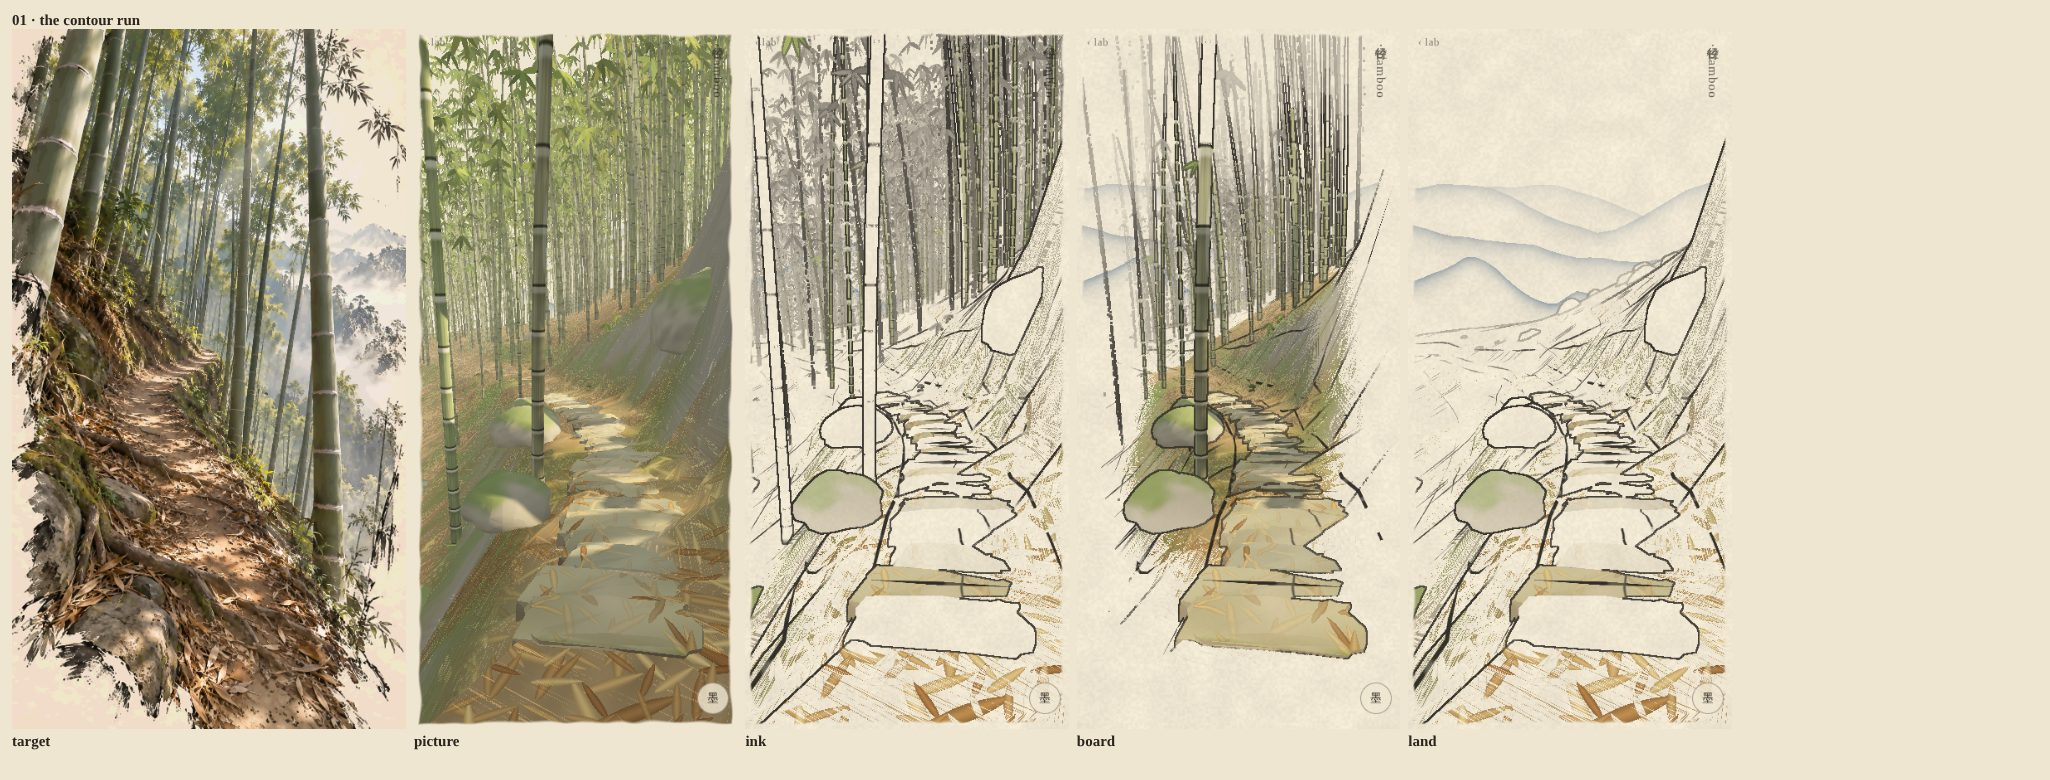
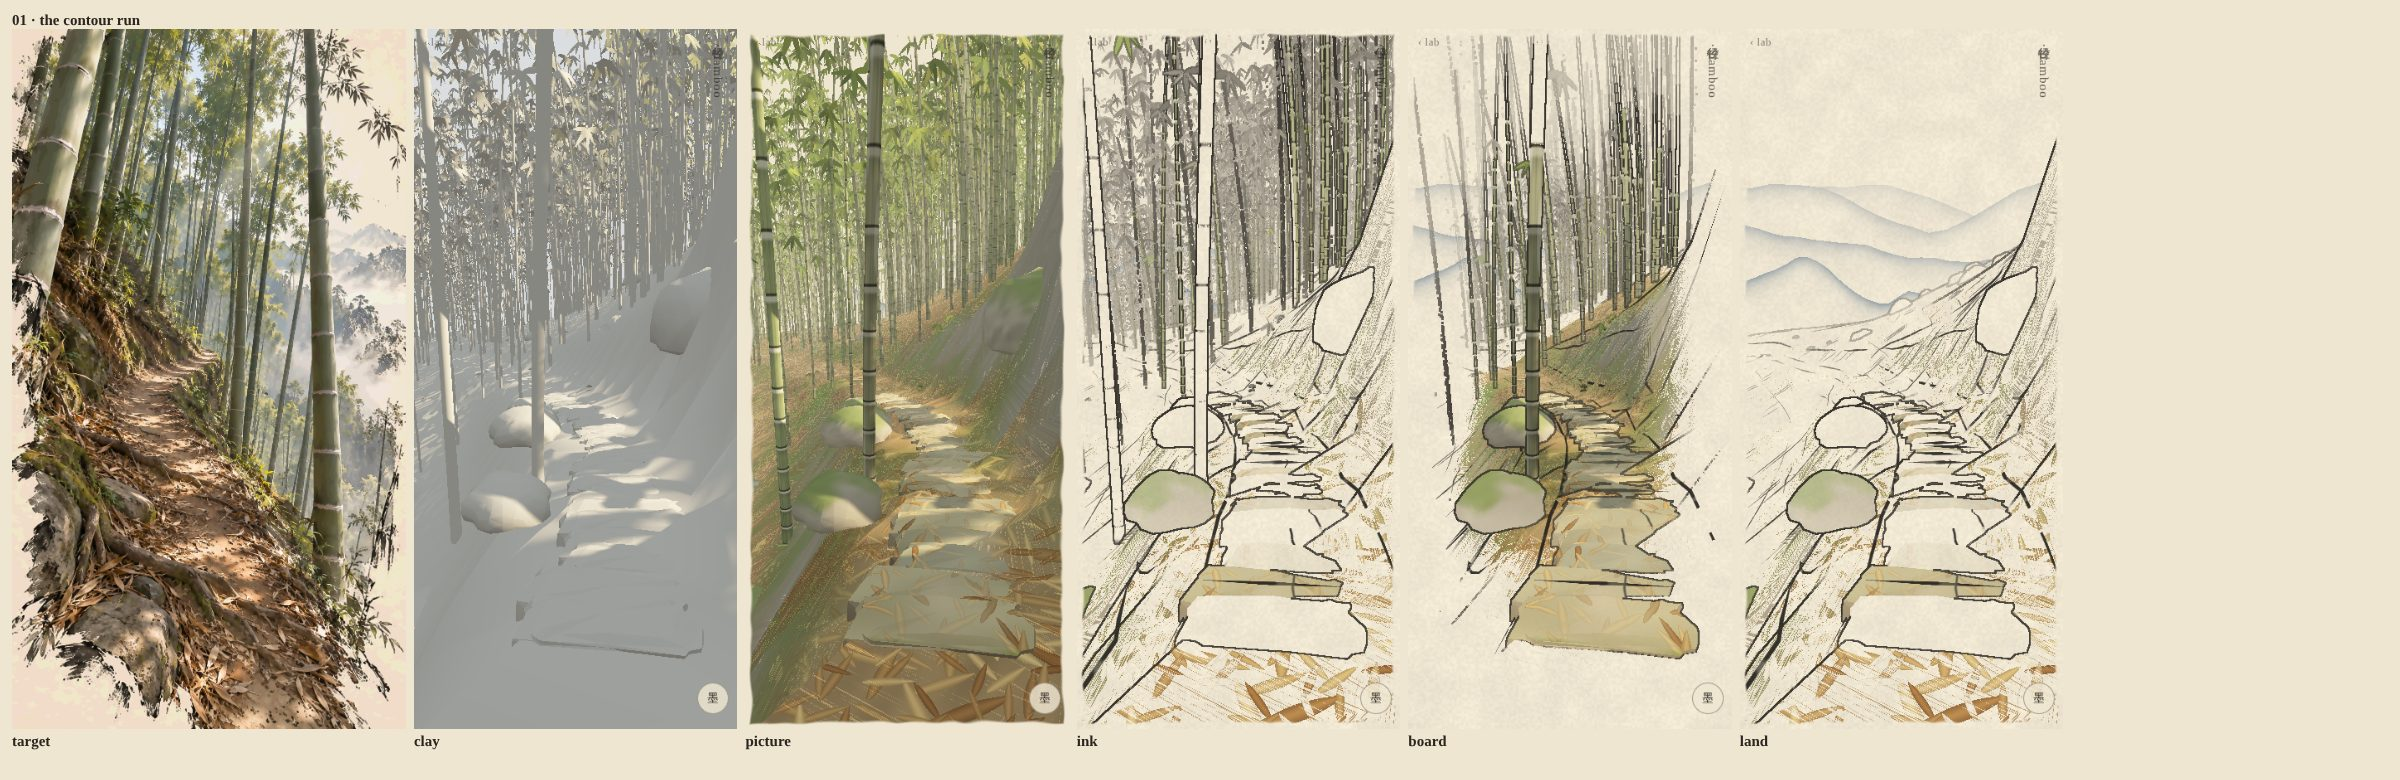
lab/bamboo: ?clay, the forms alone (one clay, the sun and the cast shadows kept, no paper or ink); a clay column in the gates
Claude-Session: https://claude.ai/code/session_01D2Nx3PayKJtFYoab5A57H3

diff --git a/cells/lab/client/bamboo/render.ts b/cells/lab/client/bamboo/render.ts
@@ -51,6 +51,7 @@ float fbm2(vec2 p) { return vn(p) * .55 + vn(p * 2.03 + 7.1) * .3 + vn(p * 4.1 -
 `;
 const COMMON = `#version 300 es
 precision highp float; precision highp int; precision highp sampler2DShadow;
+uniform float uClay;
 uniform mat4 uVP; uniform vec3 uEye; uniform float uTime; uniform vec3 uSun; uniform vec4 uGust;
 uniform vec4 uReach; // colour to, wash to, ink to, softness (metres)
 uniform vec4 uFrame; // where the frame starts drawing out (from the focus, 0…~1.6), the focus's distance, -, how much sooner things nearer or farther than it go
@@ -149,7 +150,8 @@ vec3 carpet(vec3 base, vec2 p, float px, out float mark, out float leaf) {
 }
 vec3 lit(vec3 alb, vec3 N, vec3 p, float wrap, float ao) {
   float sun = dapple(p) * culmShade(p), ndl = max(0., (dot(N, uSun) + wrap) / (1. + wrap));
-  vec3 a = lin(alb);
+  // (\`?clay\`: every surface one clay, its light kept (the sun on it, the shadows cast, the sky): the forms alone)
+  vec3 a = lin(uClay > .5 ? vec3(.8, .78, .74) : alb);
   return a * (uSunC * ndl * sun + uSky * (.5 + .5 * N.y) * ao + vec3(.2, .15, .08) * (1. - N.y) * .3 * ao);
 }
 // (the display: a soft shoulder, then back to the eye's curve)
@@ -162,6 +164,7 @@ layout(location = 0) out vec4 oC; layout(location = 1) out vec4 oA;
 // (\`lit\`: as the light has it; \`own\`: its own colour, flat, as a painter lays it once the light's gone; \`b\`: how
 // far along it is (bandAt, at a point of the thing's own))
 void emit(vec3 lit, vec3 own, float b, float kind, float allow, float mark, vec3 p) {
+  if (uClay > .5) { oC = vec4(lit, 1.); oA = vec4(kind, allow, 1., 0.); return; }
   // (a thing gone to the page is gone: it hides nothing behind it. One drawn as its ink alone still stands in front of
   // what's behind it, as a drawn culm does, its paper its own. The ground goes as its leaves do, never as a hole)
   if (kind > .3 && inkOf(b) < .04) discard;
@@ -255,10 +258,10 @@ void main() {
   // (drawn in ink, a culm's kept by how near it is: near ones held; mid ones fewer; far ones, most
   // gone, so the drawing is a few verticals and the space between them, not a fence)
   float worth = (1. - smoothstep(6., 28., dist)) * .8 + .12;
-  if (whole > 1.7 && h21(vec2(vI.y * 3.7, 5.3)) > worth * (2.9 - whole) / 1.1 * 1.6) discard;
+  if (uClay < .5 && whole > 1.7 && h21(vec2(vI.y * 3.7, 5.3)) > worth * (2.9 - whole) / 1.1 * 1.6) discard;
   // (a culm goes from the page whole, by its own reach; along it, as its internodes go further out, its colour gives
   // way and its ink thins, a brush lifting, never a cylinder cut off where an internode stops)
-  if (inkOf(vBand) < .04) discard;
+  if (uClay < .5 && inkOf(vBand) < .04) discard;
   emit(c, own(alb), min(drawn, 2.84), .4, allow, mark, vW);
 }`;
 const DEPTH_FS = `#version 300 es
@@ -315,7 +318,7 @@ void main() {
   // (the marks: each blade's edge near; where the colour's given out, the blade filled in ink, as a brush lays it)
   float near = 1. - smoothstep(8., 26., distance(vW, uEye));
   float mark = max((1. - smoothstep(.0, .3, rim)) * near * .85, (1. - colourOf(vBand)) * (.22 + .16 * best)) * uMarks;
-  if (vBand > 1.8 && fract(vSeed * 17.3) > (2.9 - vBand) / 1.1) discard;
+  if (uClay < .5 && vBand > 1.8 && fract(vSeed * 17.3) > (2.9 - vBand) / 1.1) discard;
   emit(c, own(alb), vBand, .6, near, mark, vW);
 }`;
 
@@ -470,12 +473,14 @@ precision highp float;
 in vec2 vUV; out vec4 o;
 uniform sampler2D uC; uniform sampler2D uA; uniform sampler2D uZ;
 uniform vec2 uRes; uniform float uNear; uniform float uFar; uniform float uPx;
-uniform vec3 uPaper; uniform vec3 uInk; uniform vec3 uSunUV; uniform float uClean; uniform float uMarks;
+uniform vec3 uPaper; uniform vec3 uInk; uniform vec3 uSunUV; uniform float uClean; uniform float uMarks; uniform float uClay;
 uniform vec4 uReach;
 ${NOISE}
 float lz(vec2 p) { float d = texture(uZ, p).r; return uNear * uFar / (uFar - d * (uFar - uNear)); }
 void main() {
   vec4 C = texture(uC, vUV), A = texture(uA, vUV);
+  // (\`?clay\`: the forms as they're lit, over a plain sky: no paper, no ink)
+  if (uClay > .5) { o = vec4(C.a > .01 ? C.rgb : vec3(.86, .87, .88), 1.); return; }
   float z = lz(vUV);
   // ─── the outlines: where the depth jumps or one kind meets another, inked on the side that's in front, as far as
   // its reach and its allowance there let it ───
@@ -663,6 +668,8 @@ export class Renderer {
   allStrokes = false;
   /** `?culms=0`: the land alone, no culms or sprays (the gates' hard test: does the mountain and its path read?) */
   bare = false;
+  /** `?clay`: every surface one clay, its light (sun, cast shadows, sky) kept; no paper, no ink: the forms alone */
+  clay = false;
   /** how far the drawing reaches (see the head of this file) */
   /** the focus's distance, this frame */
   focus = 15;
@@ -774,7 +781,7 @@ export class Renderer {
   private uni(p: WebGLProgram, f: Frame, vp: number[], right: number[]) {
     const gl = this.gl, u = (n: string) => gl.getUniformLocation(p, n);
     gl.uniformMatrix4fv(u('uVP'), false, vp); gl.uniform3fv(u('uEye'), f.eye); gl.uniform1f(u('uTime'), f.t); gl.uniform3fv(u('uSun'), this.sunDir);
-    gl.uniform4fv(u('uGust'), f.gust); gl.uniform3fv(u('uSunC'), [3.0, 2.45, 1.6]); gl.uniform3fv(u('uSky'), [0.62, 0.68, 0.72]); gl.uniform1f(u('uOpen'), 0);
+    gl.uniform4fv(u('uGust'), f.gust); gl.uniform1f(u('uClay'), this.clay ? 1 : 0); gl.uniform3fv(u('uSunC'), [3.0, 2.45, 1.6]); gl.uniform3fv(u('uSky'), [0.62, 0.68, 0.72]); gl.uniform1f(u('uOpen'), 0);
     gl.uniform4fv(u('uReach'), [this.reach.colour, this.reach.wash, this.reach.ink, this.reach.soft]); gl.uniform2fv(u('uPick'), this.pick); gl.uniform1f(u('uMarks'), this.marks); gl.uniform3fv(u('uRight'), right);
     { const c0 = 0.3 + this.reach.frame * 1.3; gl.uniform4fv(u('uFrame'), [c0, this.focus, 0, this.reach.depth]); }
     gl.uniformMatrix4fv(u('uLightVP'), false, this.lightVP); gl.uniform1i(u('uShadow'), 3); gl.uniform1f(u('uShadowOn'), this.shadows ? 1 : 0); gl.uniform1i(u('uDepth'), 0);
@@ -816,7 +823,7 @@ export class Renderer {
     gl.clearBufferfv(gl.COLOR, 0, [0, 0, 0, 0]); gl.clearBufferfv(gl.COLOR, 1, [0, 0, 0, 1]); gl.clearBufferfv(gl.DEPTH, 0, [1]);
     gl.enable(gl.DEPTH_TEST); gl.depthFunc(gl.LEQUAL); gl.disable(gl.BLEND); gl.disable(gl.CULL_FACE);
     // ─── the far ranges, under everything ───
-    {
+    if (!this.clay) {
       use('ridge');
       this.attr(0, this.ridge.buf, 3, 5, 0); this.attr(1, this.ridge.buf, 2, 5, 3);
       gl.drawArrays(gl.TRIANGLES, 0, this.ridge.count);
@@ -843,7 +850,7 @@ export class Renderer {
       for (const { c } of inRange(60)) if (c.nRoots) { this.attr(2, c.roots, 4, 8, 0, 1); this.attr(3, c.roots, 4, 8, 4, 1); gl.drawArraysInstanced(gl.TRIANGLES, 0, this.vbo.lump.count, c.nRoots); }
     }
     // ─── the land's strokes, on it and on its steps, stones and roots (not over what stands in front of them) ───
-    if (this.marks) {
+    if (this.marks && !this.clay) {
       const p = use('stroke');
       gl.uniform2fv(gl.getUniformLocation(p, 'uRes'), [w, h]); gl.uniform1f(gl.getUniformLocation(p, 'uAll'), this.allStrokes ? 1 : 0);
       gl.enable(gl.BLEND); gl.blendEquation(gl.MAX); gl.depthMask(false); gl.enable(gl.POLYGON_OFFSET_FILL); gl.polygonOffset(-2, -4);
@@ -889,7 +896,7 @@ export class Renderer {
     gl.activeTexture(gl.TEXTURE2); gl.bindTexture(gl.TEXTURE_2D, this.texZ); gl.uniform1i(u('uZ'), 2);
     gl.uniform2fv(u('uRes'), [w, h]); gl.uniform1f(u('uNear'), near); gl.uniform1f(u('uFar'), far); gl.uniform1f(u('uPx'), Math.max(1, h / 900));
     gl.uniform3fv(u('uPaper'), [0.937, 0.902, 0.824]); gl.uniform3fv(u('uInk'), [0.13, 0.12, 0.105]); gl.uniform3fv(u('uSunUV'), this.sunUV);
-    gl.uniform1f(u('uClean'), this.clean ? 1 : 0); gl.uniform1f(u('uMarks'), this.marks);
+    gl.uniform1f(u('uClean'), this.clean ? 1 : 0); gl.uniform1f(u('uMarks'), this.marks); gl.uniform1f(u('uClay'), this.clay ? 1 : 0);
     gl.uniform4fv(u('uReach'), [this.reach.colour, this.reach.wash, this.reach.ink, this.reach.soft]);
     this.attr(0, this.vbo.screen.buf, 2, 2, 0);
     gl.drawArrays(gl.TRIANGLES, 0, 3);

diff --git a/cells/lab/client/bamboo/main.ts b/cells/lab/client/bamboo/main.ts
@@ -68,6 +68,7 @@ let held = false, pitch = -0.06, roll = 0;
 const keys = new Set<string>();
 renderer.allStrokes = params.get('strokes') === 'all';
 renderer.bare = params.get('culms') === '0';
+renderer.clay = params.has('clay');
 const stream = (budget: number) => me.stream(me.x, me.z, budget, (k, c) => renderer.add(k, c, strokes(world, c)), (k) => renderer.drop(k));
 
 /** a trail near the origin to start on, facing along it */

diff --git a/cells/lab/static/bamboo.md b/cells/lab/static/bamboo.md
@@ -109,5 +109,6 @@ The look is now hill-climbed against five target studies (`devtools/bamboo/targe
 - `clean`: without the shafts and the paper's grain.
 - `marks=0`: the picture without its ink.
 - `strokes=all`: every stroke the land has, at full weight, none left out (to see what's laid).
+- `clay`: every surface one clay, its light kept (the sun on it, the culms' cast shadows, the sky), no paper, no ink: the forms alone.
 - `culms=0`: the land alone, no bamboo (the gates' hard test: does the mountain and its path still read?).
 - `mute`: no sound.
